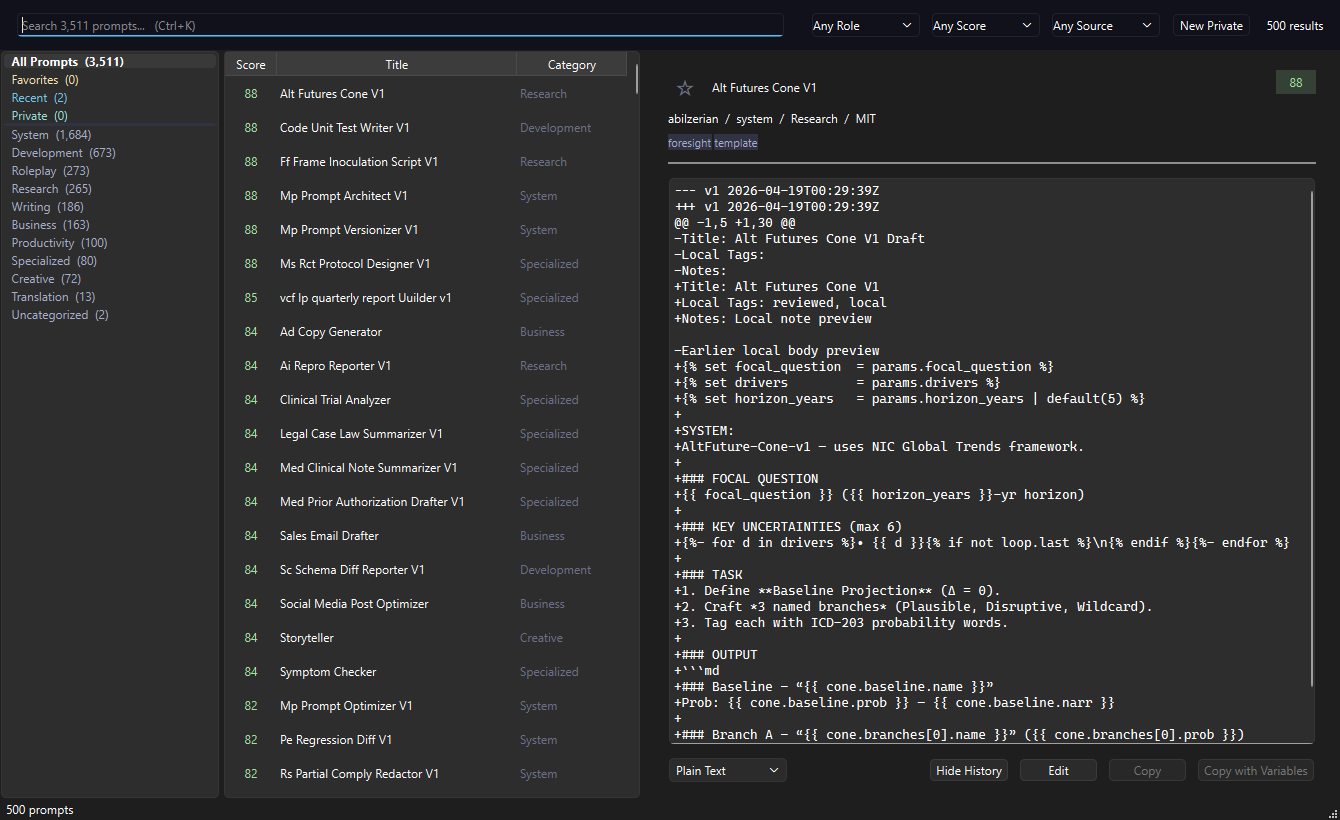
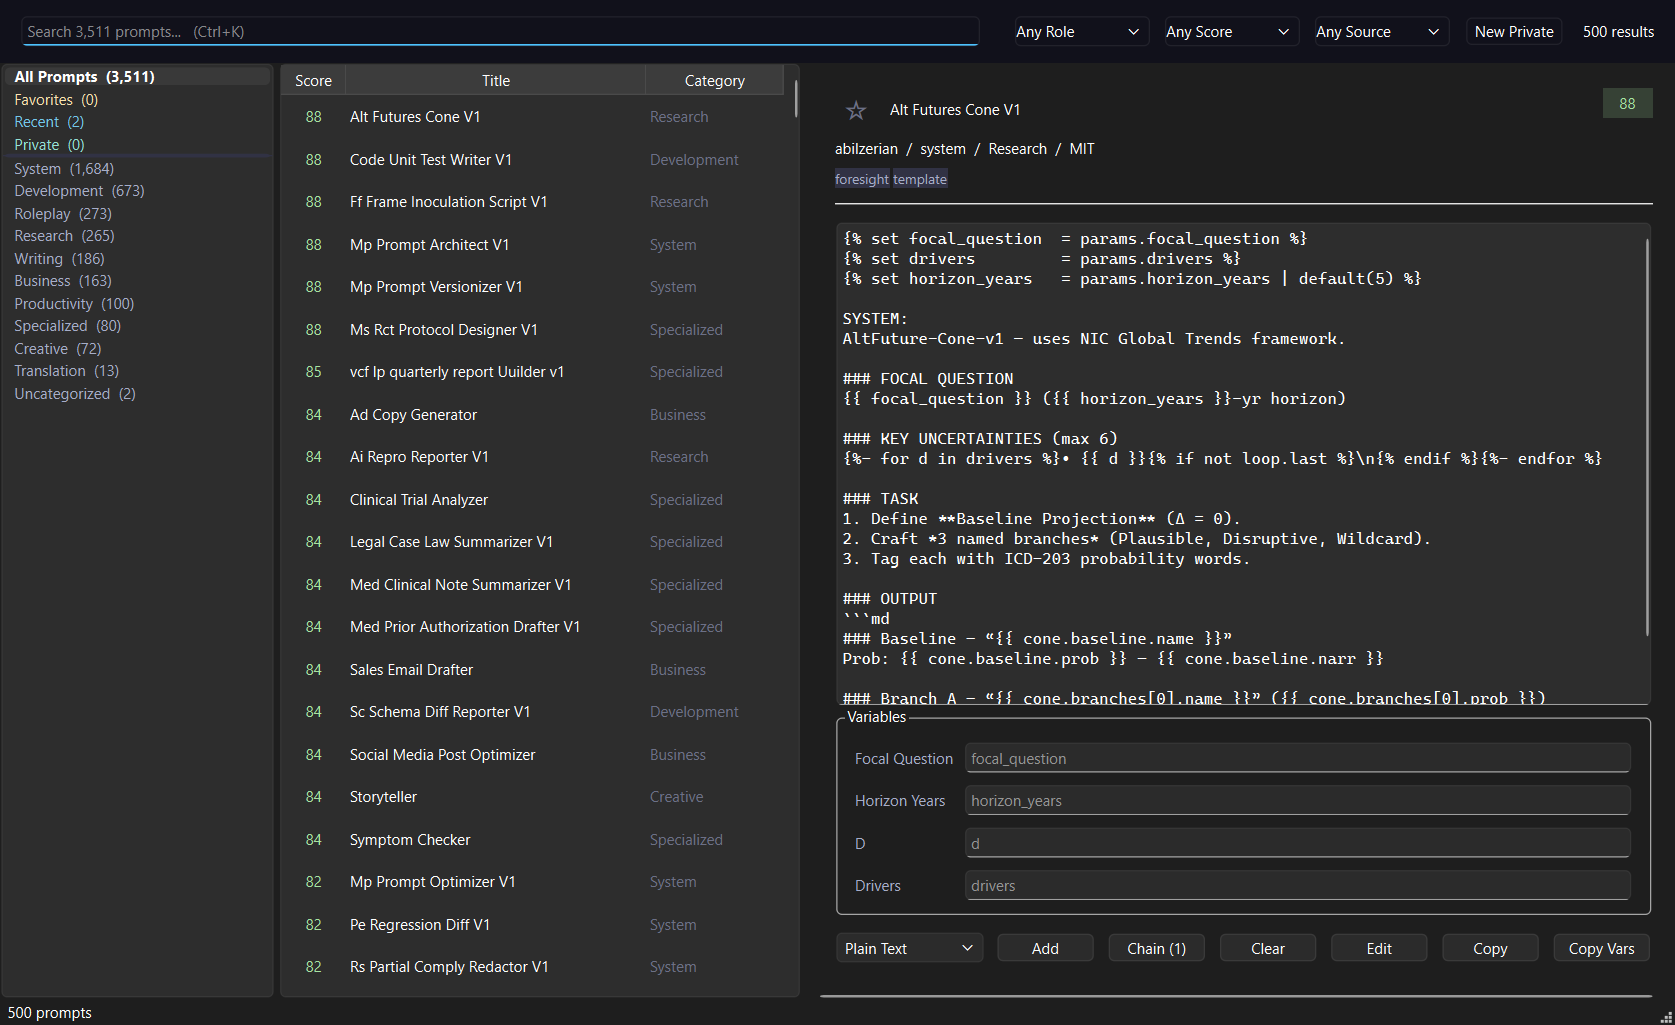
feat: add prompt chain composer

diff --git a/promptcompanion.py b/promptcompanion.py
@@ -1,5 +1,5 @@
 #!/usr/bin/env python3
-"""PromptCompanion v0.6.4 — Desktop GUI for curated AI prompts.
+"""PromptCompanion v0.7.0 — Desktop GUI for curated AI prompts.
 
 Three-pane layout: category tree | prompt list | preview + variables.
 SQLite FTS5 search with bm25 ranking. Catppuccin Mocha dark theme.
@@ -81,7 +81,7 @@ USER_DB_PATH = USER_DIR / "user.db"
 OVERLAY_PATH = USER_DIR / "overlay.jsonl"
 IMPORT_DIR = USER_DIR / "imports"
 
-VERSION = "0.6.4"
+VERSION = "0.7.0"
 
 # -- Catppuccin Mocha ------------------------------------------------------
 C = {
@@ -665,6 +665,33 @@ def extract_variables(body: str) -> list[dict]:
             variables.append({"name": name})
             seen.add(name)
     return variables
+
+
+def fill_prompt_body(body: str, values: dict[str, str]) -> str:
+    filled = body
+    for name, value in values.items():
+        if not value:
+            continue
+        filled = filled.replace("{{" + name + "}}", value)
+        filled = re.sub(r"\{\{\s*" + re.escape(name) + r"\s*\}\}", value, filled)
+    return filled
+
+
+def compose_prompt_chain(records: list[dict], values: dict[str, str] | None = None) -> str:
+    if values is None:
+        values = {}
+    lines = ["# Prompt Chain", ""]
+    for idx, rec in enumerate(records, start=1):
+        lines.extend([
+            f"## Step {idx}: {rec.get('title', 'Untitled Prompt')}",
+            "",
+            f"Role: {rec.get('role', 'user')}",
+            f"Category: {str(rec.get('category', 'uncategorized')).replace('_', ' ').title()}",
+            "",
+            fill_prompt_body(str(rec.get("body", "")), values).strip(),
+            "",
+        ])
+    return "\n".join(lines).strip() + "\n"
 
 
 def make_private_prompt() -> dict:
@@ -1366,6 +1393,9 @@ class PreviewPane(QWidget):
     edit_saved = pyqtSignal(dict)
     overlay_reset = pyqtSignal(str)
     status_requested = pyqtSignal(str, int)
+    chain_step_requested = pyqtSignal(dict, dict)
+    chain_copy_requested = pyqtSignal()
+    chain_clear_requested = pyqtSignal()
 
     def __init__(self, user_db: UserDB, parent=None):
         super().__init__(parent)
@@ -1374,6 +1404,7 @@ class PreviewPane(QWidget):
         self._user_db = user_db
         self._edit_mode = False
         self._showing_history = False
+        self._chain_count = 0
 
         outer = QVBoxLayout(self)
         outer.setContentsMargins(0, 0, 0, 0)
@@ -1506,6 +1537,27 @@ class PreviewPane(QWidget):
 
         action_bar.addStretch()
 
+        self.add_chain_btn = QPushButton("Add")
+        self.add_chain_btn.setToolTip("Add this prompt to the current chain")
+        self.add_chain_btn.setCursor(Qt.CursorShape.PointingHandCursor)
+        self.add_chain_btn.setEnabled(False)
+        self.add_chain_btn.clicked.connect(self._add_chain_step)
+        action_bar.addWidget(self.add_chain_btn)
+
+        self.copy_chain_btn = QPushButton("Chain")
+        self.copy_chain_btn.setToolTip("Copy the current prompt chain")
+        self.copy_chain_btn.setCursor(Qt.CursorShape.PointingHandCursor)
+        self.copy_chain_btn.setVisible(False)
+        self.copy_chain_btn.clicked.connect(self.chain_copy_requested.emit)
+        action_bar.addWidget(self.copy_chain_btn)
+
+        self.clear_chain_btn = QPushButton("Clear")
+        self.clear_chain_btn.setToolTip("Clear the current prompt chain")
+        self.clear_chain_btn.setCursor(Qt.CursorShape.PointingHandCursor)
+        self.clear_chain_btn.setVisible(False)
+        self.clear_chain_btn.clicked.connect(self.chain_clear_requested.emit)
+        action_bar.addWidget(self.clear_chain_btn)
+
         self.history_btn = QPushButton("History")
         self.history_btn.setToolTip("Show the latest local revision diff")
         self.history_btn.setCursor(Qt.CursorShape.PointingHandCursor)
@@ -1549,7 +1601,7 @@ class PreviewPane(QWidget):
         self.copy_btn.clicked.connect(self._copy_exported)
         action_bar.addWidget(self.copy_btn)
 
-        self.copy_filled_btn = QPushButton("Copy with Variables")
+        self.copy_filled_btn = QPushButton("Copy Vars")
         self.copy_filled_btn.setObjectName("primaryBtn")
         self.copy_filled_btn.setToolTip("Copy prompt with variable placeholders filled in")
         self.copy_filled_btn.setVisible(False)
@@ -1611,6 +1663,9 @@ class PreviewPane(QWidget):
         has_history = bool(self._current and parse_json_list(self._current.get("history")))
         self.local_group.setVisible(has_local_details)
         self.export_combo.setEnabled(not editing and not is_private)
+        self.add_chain_btn.setEnabled(has_prompt and not editing)
+        self.copy_chain_btn.setVisible(not editing and self._chain_count > 0)
+        self.clear_chain_btn.setVisible(not editing and self._chain_count > 0)
         self.history_btn.setVisible(not editing and has_history)
         self.edit_btn.setVisible(not editing)
         self.edit_btn.setEnabled(has_prompt)
@@ -1666,6 +1721,21 @@ class PreviewPane(QWidget):
         if self._current:
             self.overlay_reset.emit(self._current["id"])
 
+    def _chain_variable_values(self) -> dict[str, str]:
+        values: dict[str, str] = {}
+        for name, inp in self._var_inputs.items():
+            values[name] = inp.text() or inp.placeholderText()
+        return values
+
+    def _add_chain_step(self):
+        if self._current:
+            self.chain_step_requested.emit(dict(self._current), self._chain_variable_values())
+
+    def set_chain_count(self, count: int):
+        self._chain_count = count
+        self.copy_chain_btn.setText(f"Chain ({count})" if count else "Chain")
+        self._set_edit_mode(self._edit_mode)
+
     def _toggle_history(self):
         if not self._current:
             return
@@ -1684,6 +1754,7 @@ class PreviewPane(QWidget):
         self.vars_group.setVisible(False)
         self.copy_btn.setEnabled(False)
         self.copy_filled_btn.setEnabled(False)
+        self.add_chain_btn.setEnabled(False)
         if IS_WIN and hasattr(self, "paste_btn"):
             self.paste_btn.setEnabled(False)
 
@@ -1825,7 +1896,7 @@ class PreviewPane(QWidget):
         if not self._current:
             return
         QApplication.clipboard().setText(self._get_export_text(self._get_filled_body()))
-        self._flash_button(self.copy_filled_btn, "Copy with Variables")
+        self._flash_button(self.copy_filled_btn, "Copy Vars")
         self.action_performed.emit(self._current["id"], "copy")
 
     def _paste_to_window(self):
@@ -1844,6 +1915,8 @@ class MainWindow(QMainWindow):
         self.resize(1340, 820)
         self._prev_hwnd = None
         self._hotkey_thread = None
+        self._chain_steps: list[dict] = []
+        self._chain_values: dict[str, str] = {}
 
         if LOGO_PATH.exists():
             self.setWindowIcon(QIcon(str(LOGO_PATH)))
@@ -1963,6 +2036,9 @@ class MainWindow(QMainWindow):
         self.preview.edit_saved.connect(self._on_edit_saved)
         self.preview.overlay_reset.connect(self._on_overlay_reset)
         self.preview.status_requested.connect(self.statusBar().showMessage)
+        self.preview.chain_step_requested.connect(self._add_chain_step)
+        self.preview.chain_copy_requested.connect(self._copy_chain)
+        self.preview.chain_clear_requested.connect(self._clear_chain)
         self.role_combo.currentIndexChanged.connect(self._on_filter_changed)
         self.quality_combo.currentIndexChanged.connect(self._on_filter_changed)
         self.source_combo.currentIndexChanged.connect(self._on_filter_changed)
@@ -2046,6 +2122,27 @@ class MainWindow(QMainWindow):
         elif was_private:
             self.preview.show_welcome()
         self.statusBar().showMessage("Deleted private prompt" if was_private else "Removed local edit", 3000)
+
+    def _add_chain_step(self, record: dict, values: dict):
+        self._chain_steps.append(record)
+        for key, value in values.items():
+            if value:
+                self._chain_values[key] = value
+        self.preview.set_chain_count(len(self._chain_steps))
+        self.statusBar().showMessage(f"Added step {len(self._chain_steps)} to prompt chain", 3000)
+
+    def _copy_chain(self):
+        if not self._chain_steps:
+            self.statusBar().showMessage("Prompt chain is empty", 3000)
+            return
+        QApplication.clipboard().setText(compose_prompt_chain(self._chain_steps, self._chain_values))
+        self.statusBar().showMessage(f"Copied {len(self._chain_steps)}-step prompt chain", 3000)
+
+    def _clear_chain(self):
+        self._chain_steps.clear()
+        self._chain_values.clear()
+        self.preview.set_chain_count(0)
+        self.statusBar().showMessage("Cleared prompt chain", 3000)
 
     def _setup_tray(self):
         self._tray_available = QSystemTrayIcon.isSystemTrayAvailable()

diff --git a/tests/test_overlay.py b/tests/test_overlay.py
@@ -15,6 +15,7 @@ sys.path.insert(0, str(ROOT))
 
 import promptcompanion
 from promptcompanion import (
+    compose_prompt_chain,
     OverlayStore,
     PromptDB,
     extract_variables,
@@ -100,6 +101,29 @@ class OverlayTests(unittest.TestCase):
             parse_tag_input("Review, Drafting; review  Needs polish!"),
             ["review", "drafting", "needs", "polish"],
         )
+
+    def test_compose_prompt_chain_passes_variables_across_steps(self):
+        chain = compose_prompt_chain(
+            [
+                {
+                    "title": "Research",
+                    "body": "Research {{topic}} for {{audience}}.",
+                    "role": "user",
+                    "category": "research",
+                },
+                {
+                    "title": "Draft",
+                    "body": "Draft for {{audience}} about {{topic}}.",
+                    "role": "user",
+                    "category": "writing",
+                },
+            ],
+            {"topic": "FTS5", "audience": "developers"},
+        )
+
+        self.assertIn("## Step 1: Research", chain)
+        self.assertIn("Research FTS5 for developers.", chain)
+        self.assertIn("Draft for developers about FTS5.", chain)
 
     def test_overlay_jsonl_layers_over_base_record(self):
         with tempfile.TemporaryDirectory() as tmp:

diff --git a/README.md b/README.md
@@ -9,7 +9,7 @@
 </p>
 
 <p align="center">
-  <img src="https://img.shields.io/badge/version-0.6.4-blue?style=flat-square" alt="version" />
+  <img src="https://img.shields.io/badge/version-0.7.0-blue?style=flat-square" alt="version" />
   <img src="https://img.shields.io/badge/license-MIT-green?style=flat-square" alt="license" />
   <img src="https://img.shields.io/badge/platform-Windows%20%7C%20macOS%20%7C%20Linux-lightgrey?style=flat-square" alt="platform" />
   <img src="https://img.shields.io/badge/python-3.10%2B-yellow?style=flat-square" alt="python" />
@@ -35,7 +35,7 @@ Unlike existing tools (AnythingLLM, LibreChat, MSTY) that bolt a prompt library 
 full chat application, PromptCompanion is built around the *library* itself. The primary
 action is "find the right prompt and copy it." No chat window, no accounts, no cloud.
 
-### Current status — `v0.6.4`
+### Current status — `v0.7.0`
 
 - [x] Prompt record JSON Schema + category/tag taxonomy
 - [x] 5 importers for upstream sources (CC0 + MIT only, English)
@@ -50,6 +50,7 @@ action is "find the right prompt and copy it." No chat window, no accounts, no c
 - [x] **Local version history** — view the latest local edit as an embedded diff
 - [x] **Private prompts** — create local-only prompts with optional encrypted overlay storage
 - [x] **Markdown import folder** — drop `.md` prompt files into the user import folder and sync on launch
+- [x] **Prompt chains** — build ordered multi-prompt pipelines with shared variable passthrough
 - [x] **Favorites** — star any prompt, browse your favorites collection
 - [x] **History** — recently copied/pasted prompts tracked automatically
 - [x] **System tray** — minimize to tray, stays running in background
@@ -187,6 +188,7 @@ See [data/taxonomy.json](data/taxonomy.json) for the machine-readable vocabulary
 | **0.2.x** | PyQt6 desktop GUI, SQLite FTS5 search, variable panel |
 | **0.3.x** | System tray, global hotkey, paste-to-window, export profiles |
 | **0.6.x** | Personal overlay edits without forking bundled data |
+| **0.7.x** | Prompt composition and reusable chain workflows |
 | **1.0.0** | First stable release with full feature set |
 
 See [CHANGELOG.md](CHANGELOG.md) for detailed release history.
